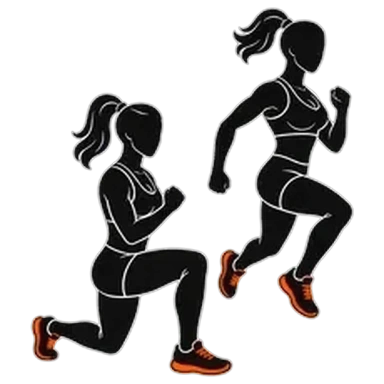
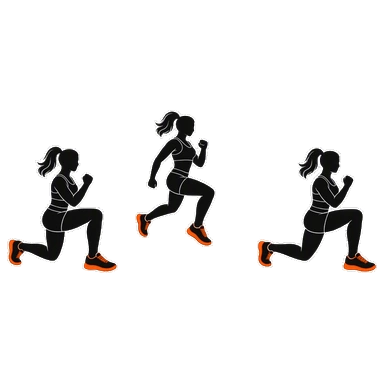
Sieben neue Übungsbilder (185, 255, 283, 286, 314, Floor Press, Jump Lunges mit drei Posen): alle 329 Übungen haben ein Bild (Fassung 2026-10-31-6)

diff --git a/fotos.js b/fotos.js
@@ -1,2 +1,2 @@
 /* Übungsbilder: img/ex/<id>.webp (Vorschau img/ex/t/<id>.webp). Nur Übungen in dieser Liste haben ein Bild; ohne Eintrag bleibt es bei der Strichfigur. */
-var EX_FOTO = {"burpees":1,"jump-squats":1,"mountain-climbers":1,"high-knees":1,"jumping-jacks":1,"skater-jumps":1,"jump-lunges":1,"plank-burpees":1,"burpee-squat-jumps":1,"jump-forward-squats":1,"jump-forward-burpees":1,"frogs":1,"stand-up-jumps":1,"lateral-hops":1,"fast-feet":1,"box-step-ups":1,"sprint-in-place":1,"goblet-squat":1,"kb-swing":1,"db-thruster":1,"romanian-deadlift":1,"db-deadlift":1,"bent-over-row":1,"one-arm-row":1,"shoulder-press":1,"push-press":1,"weighted-reverse-lunge":1,"front-rack-carry":1,"farmer-carry":1,"kb-clean":1,"renegade-row":1,"push-ups":1,"pike-push-ups":1,"triceps-dips":1,"squat-hold":1,"walking-lunges":1,"reverse-lunges":1,"side-lunges":1,"cossack-squats":1,"deep-squats":1,"pistol-assist":1,"plank-steps":1,"bear-crawl":1,"wall-sit":1,"calf-raises":1,"glute-bridge":1,"pull-ups":1,"negative-pull-ups":1,"inverted-rows":1,"superman-hold":1,"reverse-snow-angels":1,"bird-dog":1,"prone-y-raise":1,"prone-t-raise":1,"good-mornings":1,"swimmers":1,"scapular-push-ups":1,"scapular-pull-ups":1,"dead-hang":1,"air-squats":1,"split-squats":1,"bulgarian-split-squats":1,"forward-lunges":1,"single-leg-glute-bridge":1,"lateral-lunge-pulses":1,"plank":1,"side-plank":1,"dead-bug":1,"bicycle-crunches":1,"leg-raises":1,"jackknives":1,"reverse-crunch":1,"side-jackknives":1,"hollow-hold":1,"russian-twists":1,"sit-ups":1,"toe-touches":1,"plank-shoulder-taps":1,"toes-to-bar":1,"triceps-curls":1,"close-grip-push-ups":1,"diamond-push-ups":1,"sphinx-push-ups":1,"arm-circles":1,"leg-press":1,"leg-press-45":1,"leg-extension":1,"leg-curl":1,"adductor-machine":1,"abductor-machine":1,"calf-machine":1,"chest-press-machine":1,"butterfly":1,"pullover":1,"lat-pulldown":1,"row-machine":1,"cable-row":1,"reverse-butterfly":1,"back-extension":1,"shoulder-press-machine":1,"biceps-machine":1,"cable-curl":1,"triceps-pushdown":1,"skull-crusher":1,"ab-crunch-machine":1,"bench-press":1,"barbell-squat":1,"barbell-deadlift":1,"hack-squat":1,"smith-squat":1,"leg-press-single":1,"hip-thrust":1,"glute-kickback-cable":1,"seated-calf":1,"incline-chest-press":1,"cable-crossover":1,"incline-db-press":1,"db-fly":1,"assisted-pullup":1,"close-grip-pulldown":1,"t-bar-row":1,"barbell-row":1,"face-pull":1,"straight-arm-pulldown":1,"lateral-raise":1,"shrugs":1,"hammer-curl":1,"barbell-curl":1,"overhead-cable-triceps":1,"triceps-machine":1,"glute-machine":1,"calf-press":1,"lying-leg-curl":1,"rotary-torso":1,"back-extension-machine":1,"triceps-extension-machine":1,"lateral-raise-machine":1,"cable-lateral-raise":1,"smith-bench-press":1,"assisted-dip":1,"high-row-machine":1,"cable-crunch":1,"cable-pull-through":1,"cable-woodchop":1,"captains-chair":1,"barbell-overhead-press":1,"barbell-rdl":1,"knee-push-ups":1,"single-leg-calf-raise":1,"negative-dips":1,"pallof-press":1,"copenhagen-plank":1,"backpack-row":1,"db-bench-press":1,"db-step-ups":1,"sumo-squat-db":1,"single-leg-rdl":1,"nordic-curl":1,"neck-stretch":1,"chin-tuck":1,"shoulder-stretch":1,"triceps-stretch":1,"biceps-stretch":1,"chest-stretch":1,"wrist-stretch":1,"side-bend":1,"cat-cow":1,"thoracic-rotation":1,"childs-pose":1,"sphinx-stretch":1,"cobra-lift":1,"downward-dog":1,"spinal-twist":1,"forward-fold":1,"hip-flexor-stretch":1,"quad-stretch":1,"hamstring-stretch":1,"calf-stretch":1,"figure-four":1,"pigeon-stretch":1,"butterfly-stretch":1,"worlds-greatest":1,"chin-ups":1,"rung-pull-ups":1,"parallel-bar-dips":1,"support-hold":1,"hanging-knee-raise":1,"hanging-leg-raise":1,"hanging-l-sit":1,"l-sit":1,"windshield-wipers":1,"muscle-ups":1,"monkey-bar-traverse":1,"skin-the-cat":1,"archer-push-ups":1,"pistol-squats":1,"dragon-flags":1,"clap-push-ups":1,"tuck-jumps":1,"burpee-pull-ups":1,"band-standing-row":1,"band-bent-over-row":1,"band-lat-pull-apart":1,"band-pull-down":1,"band-assisted-pull-up":1,"band-push-ups":1,"band-chest-fly":1,"band-reverse-fly":1,"band-chest-fly-up":1,"band-chest-cross":1,"band-lateral-raise":1,"band-upright-row":1,"band-front-raise":1,"band-shoulder-press":1,"band-one-arm-press":1,"band-russian-twist":1,"band-kneeling-twist":1,"band-side-bend":1,"band-kneeling-crunch":1,"band-crunch":1,"band-hammer-curl":1,"band-one-arm-curl":1,"band-biceps-curl":1,"band-concentration-curl":1,"band-overhead-triceps":1,"band-triceps-pressdown":1,"band-side-triceps":1,"band-triceps-kickback":1,"band-overhead-extension":1,"band-clamshell":1,"band-leg-abduction":1,"band-single-leg-deadlift":1,"band-glute-bridge":1,"band-donkey-kick":1,"band-squat":1,"band-prone-leg-curl":1,"band-lunge-squat":1,"band-lying-leg-press":1,"decline-db-bench":1,"around-world-pullover":1,"cable-chest-fly":1,"standing-cable-fly":1,"low-to-high-cable-fly":1,"incline-push-up":1,"deficit-push-up":1,"ring-push-up":1,"wide-grip-lat-pulldown":1,"reverse-grip-lat-pulldown":1,"rope-lat-pulldown":1,"wide-grip-cable-row":1,"underhand-cable-row":1,"one-arm-cable-row":1,"one-arm-high-cable-row":1,"chest-supported-row":1,"cambered-bar-row":1,"neutral-grip-pull-up":1,"meadows-row":1,"seated-db-shoulder-press":1,"arnold-press":1,"cable-shoulder-press":1,"lean-away-lateral-raise":1,"db-front-raise":1,"front-raise-overhead":1,"db-rear-delt-fly":1,"one-arm-rear-delt-fly":1,"seated-rear-delt-fly":1,"upright-row":1,"cuban-press":1,"db-curl":1,"alternating-db-curl":1,"close-grip-ez-curl":1,"high-cable-curl":1,"one-arm-cable-curl":1,"cross-body-hammer-curl":1,"preacher-curl":1,"hammer-preacher-curl":1,"incline-db-curl":1,"spider-curl":1,"concentration-curl":1,"zottman-curl":1,"rope-triceps-pushdown":1,"kneeling-cable-triceps-extension":1,"incline-cable-triceps-extension":1,"lying-cable-triceps-extension":1,"close-grip-db-press":1,"db-skull-crusher":1,"single-arm-skull-crusher":1,"supinated-triceps-extension":1,"ez-jm-press":1,"tate-press":1,"db-bench-squat":1,"db-clean":1,"stiff-leg-deadlift":1,"standing-cable-crunch":1,"cable-lift":1,"cable-twist":1,"cable-reverse-crunch":1,"judo-flip":1,"crunch":1,"crunch-arms-straight":1,"crunch-hands-overhead":1,"cross-body-crunch":1,"bear-plank-rockback-push-up":1,"plank-toe-touch":1,"wrist-curl":1,"reverse-curl":1,"wrist-pronation":1,"wrist-supination":1,"chin-to-chest-stretch":1,"ceiling-look-stretch":1,"cross-jacks":1,"smith-overhead-press":1,"smith-incline-press":1,"smith-bent-over-row":1,"smith-split-squat":1,"smith-hip-thrust":1,"smith-calf-raise":1,"smith-shrug":1,"front-squat":1,"pause-squat":1,"zercher-squat":1,"barbell-good-morning":1,"barbell-push-press":1};
+var EX_FOTO = {"burpees":1,"jump-squats":1,"mountain-climbers":1,"high-knees":1,"jumping-jacks":1,"skater-jumps":1,"jump-lunges":1,"plank-burpees":1,"burpee-squat-jumps":1,"jump-forward-squats":1,"jump-forward-burpees":1,"frogs":1,"stand-up-jumps":1,"lateral-hops":1,"fast-feet":1,"box-step-ups":1,"sprint-in-place":1,"goblet-squat":1,"kb-swing":1,"db-thruster":1,"romanian-deadlift":1,"db-deadlift":1,"bent-over-row":1,"one-arm-row":1,"shoulder-press":1,"push-press":1,"weighted-reverse-lunge":1,"front-rack-carry":1,"farmer-carry":1,"kb-clean":1,"renegade-row":1,"push-ups":1,"pike-push-ups":1,"triceps-dips":1,"squat-hold":1,"walking-lunges":1,"reverse-lunges":1,"side-lunges":1,"cossack-squats":1,"deep-squats":1,"pistol-assist":1,"plank-steps":1,"bear-crawl":1,"wall-sit":1,"calf-raises":1,"glute-bridge":1,"pull-ups":1,"negative-pull-ups":1,"inverted-rows":1,"superman-hold":1,"reverse-snow-angels":1,"bird-dog":1,"prone-y-raise":1,"prone-t-raise":1,"good-mornings":1,"swimmers":1,"scapular-push-ups":1,"scapular-pull-ups":1,"dead-hang":1,"air-squats":1,"split-squats":1,"bulgarian-split-squats":1,"forward-lunges":1,"single-leg-glute-bridge":1,"lateral-lunge-pulses":1,"plank":1,"side-plank":1,"dead-bug":1,"bicycle-crunches":1,"leg-raises":1,"jackknives":1,"reverse-crunch":1,"side-jackknives":1,"hollow-hold":1,"russian-twists":1,"sit-ups":1,"toe-touches":1,"plank-shoulder-taps":1,"toes-to-bar":1,"triceps-curls":1,"close-grip-push-ups":1,"diamond-push-ups":1,"sphinx-push-ups":1,"arm-circles":1,"leg-press":1,"leg-press-45":1,"leg-extension":1,"leg-curl":1,"adductor-machine":1,"abductor-machine":1,"calf-machine":1,"chest-press-machine":1,"butterfly":1,"pullover":1,"lat-pulldown":1,"row-machine":1,"cable-row":1,"reverse-butterfly":1,"back-extension":1,"shoulder-press-machine":1,"biceps-machine":1,"cable-curl":1,"triceps-pushdown":1,"skull-crusher":1,"ab-crunch-machine":1,"bench-press":1,"barbell-squat":1,"barbell-deadlift":1,"hack-squat":1,"smith-squat":1,"leg-press-single":1,"hip-thrust":1,"glute-kickback-cable":1,"seated-calf":1,"incline-chest-press":1,"cable-crossover":1,"incline-db-press":1,"db-fly":1,"assisted-pullup":1,"close-grip-pulldown":1,"t-bar-row":1,"barbell-row":1,"face-pull":1,"straight-arm-pulldown":1,"lateral-raise":1,"shrugs":1,"hammer-curl":1,"barbell-curl":1,"overhead-cable-triceps":1,"triceps-machine":1,"glute-machine":1,"calf-press":1,"lying-leg-curl":1,"rotary-torso":1,"back-extension-machine":1,"triceps-extension-machine":1,"lateral-raise-machine":1,"cable-lateral-raise":1,"smith-bench-press":1,"assisted-dip":1,"high-row-machine":1,"cable-crunch":1,"cable-pull-through":1,"cable-woodchop":1,"captains-chair":1,"barbell-overhead-press":1,"barbell-rdl":1,"knee-push-ups":1,"single-leg-calf-raise":1,"negative-dips":1,"pallof-press":1,"copenhagen-plank":1,"backpack-row":1,"db-bench-press":1,"db-step-ups":1,"sumo-squat-db":1,"single-leg-rdl":1,"nordic-curl":1,"neck-stretch":1,"chin-tuck":1,"shoulder-stretch":1,"triceps-stretch":1,"biceps-stretch":1,"chest-stretch":1,"wrist-stretch":1,"side-bend":1,"cat-cow":1,"thoracic-rotation":1,"childs-pose":1,"sphinx-stretch":1,"cobra-lift":1,"downward-dog":1,"spinal-twist":1,"forward-fold":1,"hip-flexor-stretch":1,"quad-stretch":1,"hamstring-stretch":1,"calf-stretch":1,"figure-four":1,"pigeon-stretch":1,"butterfly-stretch":1,"worlds-greatest":1,"chin-ups":1,"rung-pull-ups":1,"parallel-bar-dips":1,"support-hold":1,"hanging-knee-raise":1,"hanging-leg-raise":1,"hanging-l-sit":1,"l-sit":1,"windshield-wipers":1,"muscle-ups":1,"monkey-bar-traverse":1,"skin-the-cat":1,"archer-push-ups":1,"pistol-squats":1,"dragon-flags":1,"clap-push-ups":1,"tuck-jumps":1,"burpee-pull-ups":1,"band-standing-row":1,"band-bent-over-row":1,"band-lat-pull-apart":1,"band-pull-down":1,"band-assisted-pull-up":1,"band-push-ups":1,"band-chest-fly":1,"band-reverse-fly":1,"band-chest-fly-up":1,"band-chest-cross":1,"band-lateral-raise":1,"band-upright-row":1,"band-front-raise":1,"band-shoulder-press":1,"band-one-arm-press":1,"band-russian-twist":1,"band-kneeling-twist":1,"band-side-bend":1,"band-kneeling-crunch":1,"band-crunch":1,"band-hammer-curl":1,"band-one-arm-curl":1,"band-biceps-curl":1,"band-concentration-curl":1,"band-overhead-triceps":1,"band-triceps-pressdown":1,"band-side-triceps":1,"band-triceps-kickback":1,"band-overhead-extension":1,"band-clamshell":1,"band-leg-abduction":1,"band-single-leg-deadlift":1,"band-glute-bridge":1,"band-donkey-kick":1,"band-squat":1,"band-prone-leg-curl":1,"band-lunge-squat":1,"band-lying-leg-press":1,"decline-db-bench":1,"around-world-pullover":1,"cable-chest-fly":1,"standing-cable-fly":1,"low-to-high-cable-fly":1,"incline-push-up":1,"deficit-push-up":1,"ring-push-up":1,"wide-grip-lat-pulldown":1,"reverse-grip-lat-pulldown":1,"rope-lat-pulldown":1,"wide-grip-cable-row":1,"underhand-cable-row":1,"one-arm-cable-row":1,"one-arm-high-cable-row":1,"chest-supported-row":1,"cambered-bar-row":1,"neutral-grip-pull-up":1,"meadows-row":1,"seated-db-shoulder-press":1,"arnold-press":1,"cable-shoulder-press":1,"lean-away-lateral-raise":1,"db-front-raise":1,"front-raise-overhead":1,"db-rear-delt-fly":1,"one-arm-rear-delt-fly":1,"seated-rear-delt-fly":1,"upright-row":1,"cuban-press":1,"db-curl":1,"alternating-db-curl":1,"close-grip-ez-curl":1,"high-cable-curl":1,"one-arm-cable-curl":1,"cross-body-hammer-curl":1,"preacher-curl":1,"hammer-preacher-curl":1,"incline-db-curl":1,"spider-curl":1,"concentration-curl":1,"zottman-curl":1,"rope-triceps-pushdown":1,"kneeling-cable-triceps-extension":1,"incline-cable-triceps-extension":1,"lying-cable-triceps-extension":1,"close-grip-db-press":1,"db-skull-crusher":1,"single-arm-skull-crusher":1,"supinated-triceps-extension":1,"ez-jm-press":1,"tate-press":1,"db-bench-squat":1,"db-clean":1,"stiff-leg-deadlift":1,"standing-cable-crunch":1,"cable-lift":1,"cable-twist":1,"cable-reverse-crunch":1,"judo-flip":1,"crunch":1,"crunch-arms-straight":1,"crunch-hands-overhead":1,"cross-body-crunch":1,"bear-plank-rockback-push-up":1,"plank-toe-touch":1,"wrist-curl":1,"reverse-curl":1,"wrist-pronation":1,"wrist-supination":1,"chin-to-chest-stretch":1,"ceiling-look-stretch":1,"cross-jacks":1,"smith-overhead-press":1,"smith-incline-press":1,"smith-bent-over-row":1,"smith-split-squat":1,"smith-hip-thrust":1,"smith-calf-raise":1,"smith-shrug":1,"front-squat":1,"pause-squat":1,"zercher-squat":1,"barbell-good-morning":1,"barbell-push-press":1,"commando-pull-ups":1,"alternating-cable-row":1,"standing-concentration-curl":1,"one-arm-cable-triceps-extension":1,"plate-pinch-hold":1,"floor-press":1};

diff --git a/figuren-pruefliste.html b/figuren-pruefliste.html
@@ -13,8 +13,8 @@
 <meta name="apple-mobile-web-app-status-bar-style" content="black-translucent">
 <meta name="apple-mobile-web-app-title" content="BLOC">
 <!-- ?v= gehört zu FASSUNG in sw.js: bei jeder neuen Fassung beide ändern -->
-<link rel="stylesheet" href="./app.css?v=2026-10-31-5">
-<link rel="stylesheet" href="./layout-new.css?v=2026-10-31-5">
+<link rel="stylesheet" href="./app.css?v=2026-10-31-6">
+<link rel="stylesheet" href="./layout-new.css?v=2026-10-31-6">
 </head>
 <style>
 body{ background:#16161a; color:#eee; font:14px/1.4 system-ui,sans-serif; padding:12px; }
@@ -42,34 +42,34 @@ h1{ font-size:20px; margin:4px 0 2px; } .sub{ color:#aaa; margin-bottom:12px; }
 </head>
 <body>
 <div id="app"></div><div id="playerRoot"></div><div id="overlayRoot"></div><nav id="tabbar" class="tabbar hidden"></nav>
-<script src="./texte.js?v=2026-10-31-5"></script>
-<script src="./daten.js?v=2026-10-31-5"></script>
-<script src="./faq.js?v=2026-10-31-5"></script>
-<script src="./js/00-native.js?v=2026-10-31-5"></script>
-<script src="./js/01-basis.js?v=2026-10-31-5"></script>
-<script src="./js/02-bibliothek.js?v=2026-10-31-5"></script>
-<script src="./js/03-router.js?v=2026-10-31-5"></script>
-<script src="./js/04-start.js?v=2026-10-31-5"></script>
-<script src="./js/05-suche.js?v=2026-10-31-5"></script>
-<script src="./js/06-timer-listen.js?v=2026-10-31-5"></script>
-<script src="./js/07-studio.js?v=2026-10-31-5"></script>
-<script src="./js/08-koerperkarte.js?v=2026-10-31-5"></script>
-<script src="./js/09-studio-karte.js?v=2026-10-31-5"></script>
-<script src="./js/10-gemeinsam.js?v=2026-10-31-5"></script>
-<script src="./js/11-bibliothek-seite.js?v=2026-10-31-5"></script>
-<script src="./js/11b-katalog.js?v=2026-10-31-5"></script>
-<script src="./js/12-uebung-statistik.js?v=2026-10-31-5"></script>
-<script src="./js/13-teilen-editor.js?v=2026-10-31-5"></script>
-<script src="./js/14-einfuehrung-sicherung.js?v=2026-10-31-5"></script>
-<script src="./js/16-lauf.js?v=2026-10-31-5"></script>
-<script src="./js/17-aufwaermen-einstellungen.js?v=2026-10-31-5"></script>
-<script src="./js/18-audio.js?v=2026-10-31-5"></script>
-<script src="./js/19-timer-motor.js?v=2026-10-31-5"></script>
-<script src="./js/19a-kalender.js?v=2026-10-31-5"></script>
-<script src="./js/20-walzen-start.js?v=2026-10-31-5"></script>
-<script src="./js/21-koerper.js?v=2026-10-31-5"></script>
-<script src="./js/22-satz-training.js?v=2026-10-31-5"></script>
-<script src="./js/23-protein.js?v=2026-10-31-5"></script>
+<script src="./texte.js?v=2026-10-31-6"></script>
+<script src="./daten.js?v=2026-10-31-6"></script>
+<script src="./faq.js?v=2026-10-31-6"></script>
+<script src="./js/00-native.js?v=2026-10-31-6"></script>
+<script src="./js/01-basis.js?v=2026-10-31-6"></script>
+<script src="./js/02-bibliothek.js?v=2026-10-31-6"></script>
+<script src="./js/03-router.js?v=2026-10-31-6"></script>
+<script src="./js/04-start.js?v=2026-10-31-6"></script>
+<script src="./js/05-suche.js?v=2026-10-31-6"></script>
+<script src="./js/06-timer-listen.js?v=2026-10-31-6"></script>
+<script src="./js/07-studio.js?v=2026-10-31-6"></script>
+<script src="./js/08-koerperkarte.js?v=2026-10-31-6"></script>
+<script src="./js/09-studio-karte.js?v=2026-10-31-6"></script>
+<script src="./js/10-gemeinsam.js?v=2026-10-31-6"></script>
+<script src="./js/11-bibliothek-seite.js?v=2026-10-31-6"></script>
+<script src="./js/11b-katalog.js?v=2026-10-31-6"></script>
+<script src="./js/12-uebung-statistik.js?v=2026-10-31-6"></script>
+<script src="./js/13-teilen-editor.js?v=2026-10-31-6"></script>
+<script src="./js/14-einfuehrung-sicherung.js?v=2026-10-31-6"></script>
+<script src="./js/16-lauf.js?v=2026-10-31-6"></script>
+<script src="./js/17-aufwaermen-einstellungen.js?v=2026-10-31-6"></script>
+<script src="./js/18-audio.js?v=2026-10-31-6"></script>
+<script src="./js/19-timer-motor.js?v=2026-10-31-6"></script>
+<script src="./js/19a-kalender.js?v=2026-10-31-6"></script>
+<script src="./js/20-walzen-start.js?v=2026-10-31-6"></script>
+<script src="./js/21-koerper.js?v=2026-10-31-6"></script>
+<script src="./js/22-satz-training.js?v=2026-10-31-6"></script>
+<script src="./js/23-protein.js?v=2026-10-31-6"></script>
 <script>
 /* Figuren-Prüfliste: alle Übungen mit ihren Figuren (Pose A und B, zweite Ansicht); gelb = unsicher, rot = bekannt unzureichend (noch offen) */
 var UNSICHER = {

diff --git a/index.html b/index.html
@@ -13,8 +13,8 @@
 <meta name="apple-mobile-web-app-status-bar-style" content="black-translucent">
 <meta name="apple-mobile-web-app-title" content="BLOC">
 <!-- ?v= gehört zu FASSUNG in sw.js: bei jeder neuen Fassung beide ändern -->
-<link rel="stylesheet" href="./app.css?v=2026-10-31-5">
-<link rel="stylesheet" href="./layout-new.css?v=2026-10-31-5">
+<link rel="stylesheet" href="./app.css?v=2026-10-31-6">
+<link rel="stylesheet" href="./layout-new.css?v=2026-10-31-6">
 </head>
 <body>
 <div class="glas-bg" aria-hidden="true"><i></i></div>
@@ -23,33 +23,33 @@
 <div id="overlayRoot"></div>
 <nav id="tabbar" class="tabbar hidden" aria-label="Navigation"></nav>
 
-<script src="./texte.js?v=2026-10-31-5"></script>
-<script src="./daten.js?v=2026-10-31-5"></script>
-<script src="./fotos.js?v=2026-10-31-5"></script>
-<script src="./faq.js?v=2026-10-31-5"></script>
-<script src="./js/01-basis.js?v=2026-10-31-5"></script>
-<script src="./js/02-bibliothek.js?v=2026-10-31-5"></script>
-<script src="./js/03-router.js?v=2026-10-31-5"></script>
-<script src="./js/04-start.js?v=2026-10-31-5"></script>
-<script src="./js/05-suche.js?v=2026-10-31-5"></script>
-<script src="./js/06-timer-listen.js?v=2026-10-31-5"></script>
-<script src="./js/07-studio.js?v=2026-10-31-5"></script>
-<script src="./js/08-koerperkarte.js?v=2026-10-31-5"></script>
-<script src="./js/09-studio-karte.js?v=2026-10-31-5"></script>
-<script src="./js/10-gemeinsam.js?v=2026-10-31-5"></script>
-<script src="./js/11-bibliothek-seite.js?v=2026-10-31-5"></script>
-<script src="./js/11b-katalog.js?v=2026-10-31-5"></script>
-<script src="./js/12-uebung-statistik.js?v=2026-10-31-5"></script>
-<script src="./js/13-teilen-editor.js?v=2026-10-31-5"></script>
-<script src="./js/14-einfuehrung-sicherung.js?v=2026-10-31-5"></script>
-<script src="./js/16-lauf.js?v=2026-10-31-5"></script>
-<script src="./js/17-aufwaermen-einstellungen.js?v=2026-10-31-5"></script>
-<script src="./js/18-audio.js?v=2026-10-31-5"></script>
-<script src="./js/19-timer-motor.js?v=2026-10-31-5"></script>
-<script src="./js/19a-kalender.js?v=2026-10-31-5"></script>
-<script src="./js/20-walzen-start.js?v=2026-10-31-5"></script>
-<script src="./js/21-koerper.js?v=2026-10-31-5"></script>
-<script src="./js/22-satz-training.js?v=2026-10-31-5"></script>
-<script src="./js/23-protein.js?v=2026-10-31-5"></script>
+<script src="./texte.js?v=2026-10-31-6"></script>
+<script src="./daten.js?v=2026-10-31-6"></script>
+<script src="./fotos.js?v=2026-10-31-6"></script>
+<script src="./faq.js?v=2026-10-31-6"></script>
+<script src="./js/01-basis.js?v=2026-10-31-6"></script>
+<script src="./js/02-bibliothek.js?v=2026-10-31-6"></script>
+<script src="./js/03-router.js?v=2026-10-31-6"></script>
+<script src="./js/04-start.js?v=2026-10-31-6"></script>
+<script src="./js/05-suche.js?v=2026-10-31-6"></script>
+<script src="./js/06-timer-listen.js?v=2026-10-31-6"></script>
+<script src="./js/07-studio.js?v=2026-10-31-6"></script>
+<script src="./js/08-koerperkarte.js?v=2026-10-31-6"></script>
+<script src="./js/09-studio-karte.js?v=2026-10-31-6"></script>
+<script src="./js/10-gemeinsam.js?v=2026-10-31-6"></script>
+<script src="./js/11-bibliothek-seite.js?v=2026-10-31-6"></script>
+<script src="./js/11b-katalog.js?v=2026-10-31-6"></script>
+<script src="./js/12-uebung-statistik.js?v=2026-10-31-6"></script>
+<script src="./js/13-teilen-editor.js?v=2026-10-31-6"></script>
+<script src="./js/14-einfuehrung-sicherung.js?v=2026-10-31-6"></script>
+<script src="./js/16-lauf.js?v=2026-10-31-6"></script>
+<script src="./js/17-aufwaermen-einstellungen.js?v=2026-10-31-6"></script>
+<script src="./js/18-audio.js?v=2026-10-31-6"></script>
+<script src="./js/19-timer-motor.js?v=2026-10-31-6"></script>
+<script src="./js/19a-kalender.js?v=2026-10-31-6"></script>
+<script src="./js/20-walzen-start.js?v=2026-10-31-6"></script>
+<script src="./js/21-koerper.js?v=2026-10-31-6"></script>
+<script src="./js/22-satz-training.js?v=2026-10-31-6"></script>
+<script src="./js/23-protein.js?v=2026-10-31-6"></script>
 </body>
 </html>

diff --git a/sw.js b/sw.js
@@ -7,7 +7,7 @@
  */
 
 /* Einzige Stelle für die Versionsnummer - die App fragt sie per postMessage ab (Einstellungen, ganz unten) */
-var FASSUNG = "2026-10-31-5";
+var FASSUNG = "2026-10-31-6";
 var NETZ_WARTEN = 2500;   // ms - so lange wartet der Start höchstens aufs Netz, wenn es eine gespeicherte Fassung gibt
 var SPEICHER = "sporttimer-" + FASSUNG;
 var GRUNDGERUEST = ["./", "./index.html", "./texte.js", "./quellen.html", "./daten.js", "./fotos.js", "./faq.js", "./js/01-basis.js", "./js/02-bibliothek.js", "./js/03-router.js", "./js/04-start.js", "./js/05-suche.js", "./js/06-timer-listen.js", "./js/07-studio.js", "./js/08-koerperkarte.js", "./js/09-studio-karte.js", "./js/10-gemeinsam.js", "./js/11-bibliothek-seite.js", "./js/11b-katalog.js", "./js/12-uebung-statistik.js", "./js/13-teilen-editor.js", "./js/14-einfuehrung-sicherung.js", "./js/16-lauf.js", "./js/17-aufwaermen-einstellungen.js", "./js/18-audio.js", "./js/19-timer-motor.js", "./js/19a-kalender.js", "./js/20-walzen-start.js", "./js/21-koerper.js", "./js/22-satz-training.js", "./js/23-protein.js", "./img/neu-protein.jpg", "./app.css", "./layout-new.css", "./img/neu-workout.jpg", "./img/neu-mobility.jpg", "./img/neu-timer.jpg", "./img/neu-run.jpg", "./img/neu-builder.webp", "./img/neu-kopf.jpg", "./img/neu-kopf-hell.jpg", "./img/neu-kopf-hell-meer.jpg", "./img/neu-h-halle.jpg", "./img/neu-h-kettlebell.jpg", "./img/neu-h-dehnen.jpg", "./img/neu-d-kalender.jpg", "./img/neu-d-katalog.jpg", "./img/neu-run-bg.jpg", "./img/neu-p-freiluft-meer.jpg", "./img/neu-faq.jpg", "./img/neu-freiluft.jpg", "./img/neu-p-freiluft-meer.jpg", "./img/neu-p-liegestuetz-strand.jpg", "./img/neu-p-liegestuetz-stadt.jpg", "./img/neu-p-studio-hantelreihe.jpg", "./img/neu-p-studio-gewichtsblock.jpg", "./img/neu-p-studio-halle.jpg", "./img/neu-p-frau-latzug.jpg", "./img/neu-p-timer-box.jpg", "./img/neu-p-frau-klimmzug.jpg", "./img/neu-p-frau-kniebeuge.jpg", "./img/neu-p-liegestuetz-feld.jpg", "./img/neu-p-mobility-ausfall.jpg", "./img/neu-p-mobility-sitz.jpg", "./img/neu-p-run-licht.jpg", "./img/neu-p-run-strasse.jpg", "./img/neu-p-run-sw.jpg", "./img/neu-p-freiluft-leiter.jpg", "./manifest.json", "./icon.png", "./icon-180.png", "./privacy.html", "./img/ort-fitnessstudio.jpg", "./img/ort-freiluft.jpg", "./img/start-halle.jpg", "./img/bereich-run.jpg", "./img/bereich-suche.jpg"];

diff --git a/schnelltest.html b/schnelltest.html
@@ -434,9 +434,11 @@
       pruefe(!$(".info-pane-bild").hidden, "Die Wahl Bild bleibt beim erneuten Öffnen nicht erhalten");
       klick('[data-ansicht="figur"]');
       await bis(function () { return $(".info-pane-bild").hidden && !$(".info-pane-fig").hidden; }, 2000, "Zurück zur Figur");
-      zu(); W.openExInfo("commando-pull-ups");
+      zu(); var fotoMerk = W.EX_FOTO["commando-pull-ups"]; delete W.EX_FOTO["commando-pull-ups"];   // alle Übungen haben ein Bild: „ohne Bild“ wird hier nachgestellt
+      W.openExInfo("commando-pull-ups");
       await bis(function () { return $(".info-fig"); }, 2000, "Info ohne Bild");
       pruefe(!$(".media-seg") && !$(".info-pane-bild"), "Ohne Bild darf es keinen Umschalter geben");
+      W.EX_FOTO["commando-pull-ups"] = fotoMerk;
       zu(); W.state.db.settings.infoBild = false;
     }],
     ["Suche: Antippen öffnet erst die Info-Karte, darin einklappbar „Training“ (Satz für Satz | Mit Timer) mit Start darunter; Zurück führt in die Suche", async function () {

diff --git a/VERLAUF.md b/VERLAUF.md
@@ -3,6 +3,11 @@
 Kurze Notizen zu den **letzten Änderungen** (ab 2026-10-05), jeweils mit der Fassung. Ältere Einträge stehen im
 [Archiv](docs/VERLAUF-Archiv.md). Den **aktuellen** Stand beschreibt die [README](README.md).
 
+## 2026-10-31 · Sieben neue Übungsbilder (Fassung 2026-10-31-6)
+
+- **Bilder:** Neu aus den Blättern: 185 Commando Pull-Up, 255 Wechselndes Kabelrudern, 283 Konzentrationscurl im Stand, 286 Einarmiges Trizepsdrücken am Kabel, 314 Scheibenklemme, 025 Floor Press; 007 Jump Lunges neu mit drei Posen. Damit haben alle 329 Übungen ein Bild.
+- **Test:** „Ohne Bild kein Umschalter“ stellt den Fall nach (entfernt kurz den Eintrag in `EX_FOTO`), weil keine Übung mehr ohne Bild ist.
+
 ## 2026-10-31 · Info-Karte der Suche mit „Training“-Block (Fassung 2026-10-31-5)
 
 - **Suche:** In der Info-Karte steht statt des großen Play-Knopfs ein einklappbarer Block **Training**: Satz für Satz | Mit Timer wählen, darunter **Einstellen & starten**. Der Knopf öffnet die Studio-Seite mit allen Einstellungen (Gewicht, Wiederholungen, Pause bzw. Runden, Arbeit, Pause), auch bei Übungen ohne Gewicht. Standard: eingeklappt, die Wahl merkt sich die App (`settings.infoStartAuf`).
